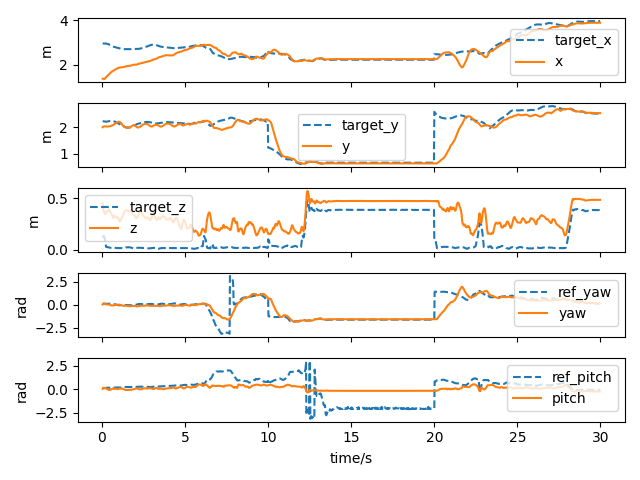
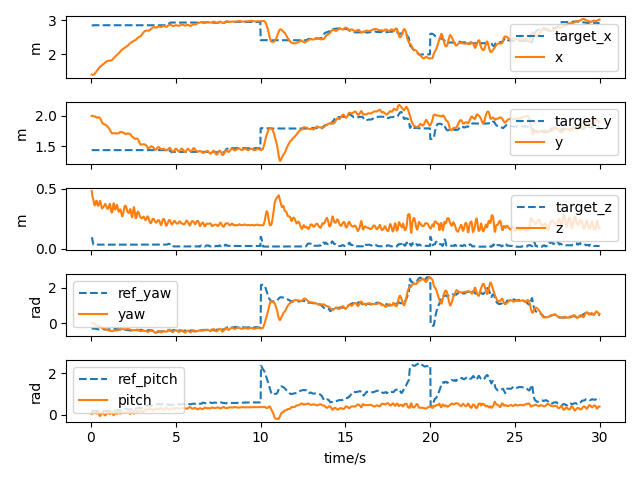
bug: decimation 4

diff --git a/legged_gym/legged_gym/envs/go1g/go1gb_config.py b/legged_gym/legged_gym/envs/go1g/go1gb_config.py
@@ -103,7 +103,7 @@ class Go1GBRoughCfg( LeggedRobotCfg ):
         # action scale: target angle = actionScale * action + defaultAngle
         action_scale = 0.25
         # decimation: Number of control action updates @ sim DT per policy DT
-        decimation = 8#4
+        decimation = 4
 
     class asset( LeggedRobotCfg.asset ):
         # file = '{LEGGED_GYM_ROOT_DIR}/resources/robots/go1/urdf/go1_new.urdf'
